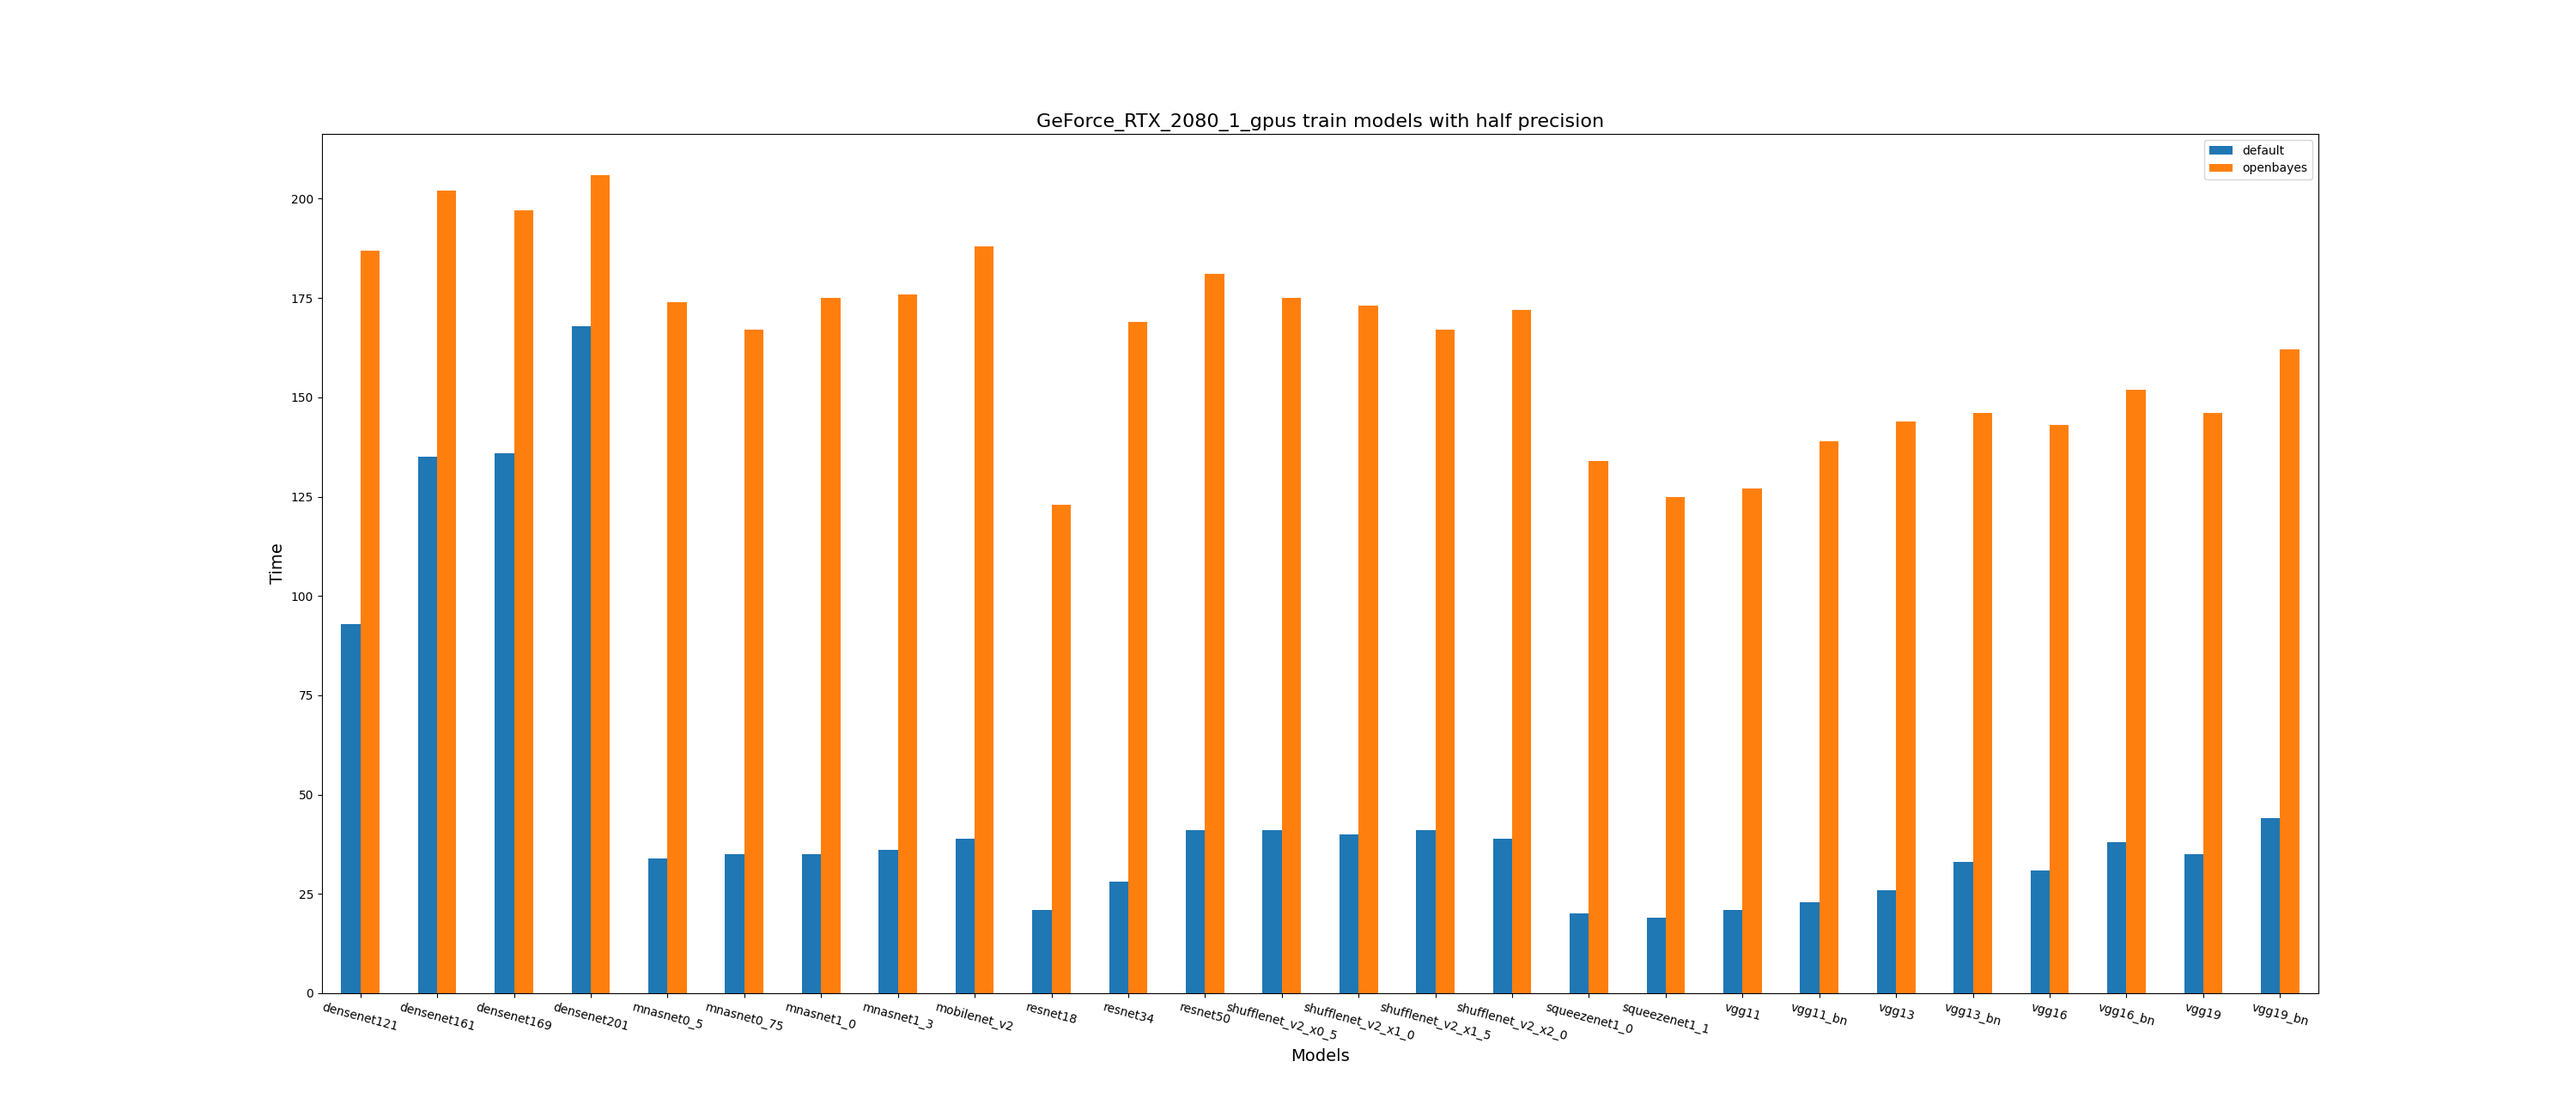
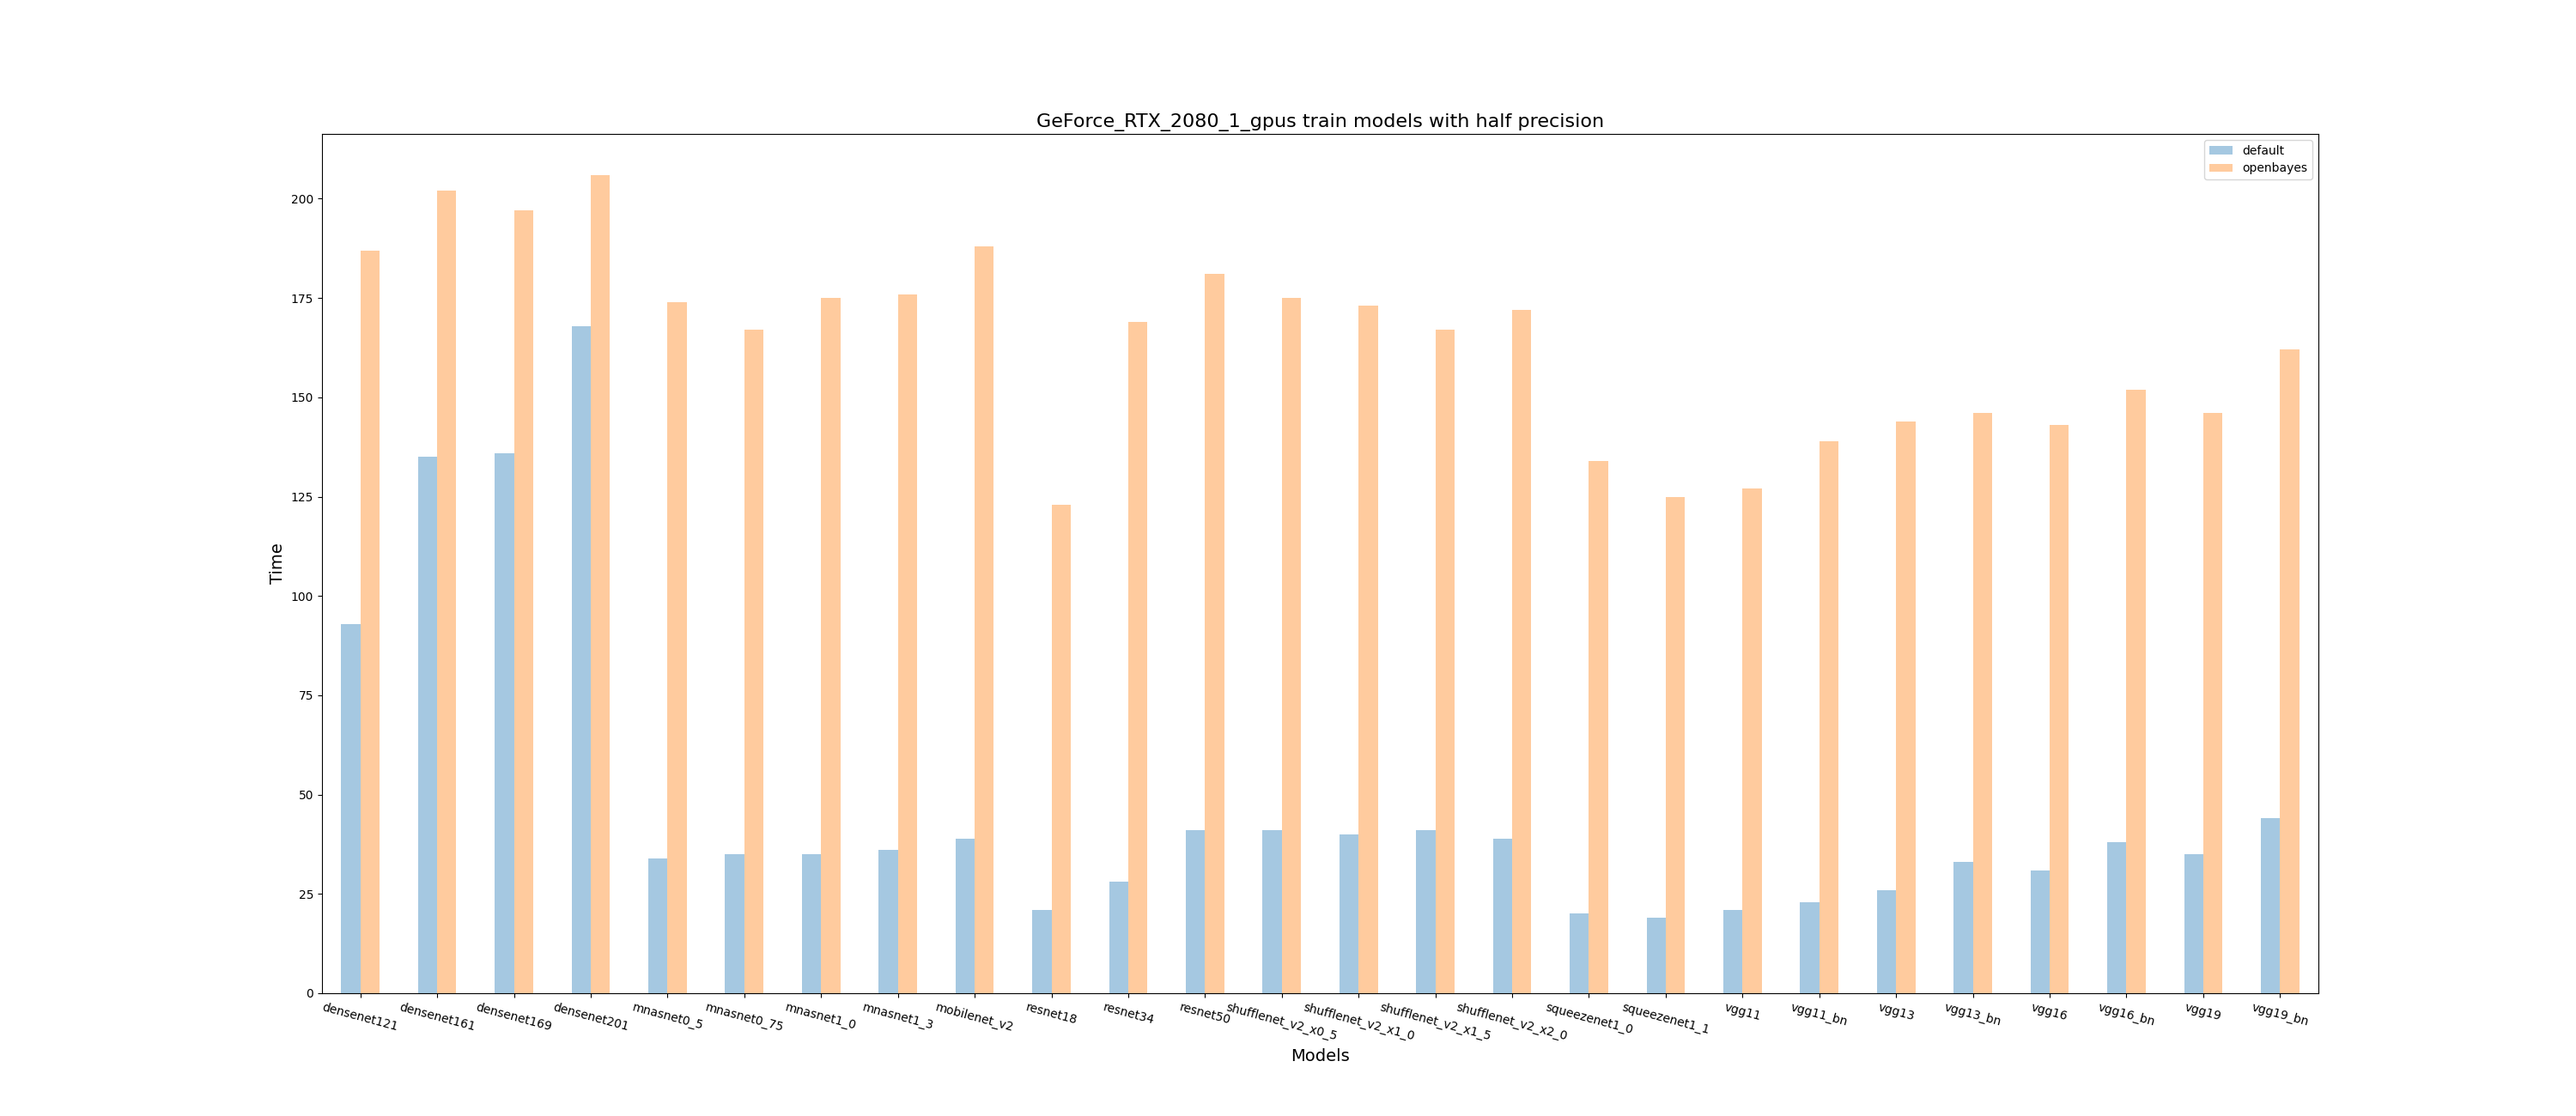
feat(benchmark): add color alpha for plot #2

Changed region(s): [[0.124, 0.1538, 0.899, 0.8923], [0.837, 0.1231, 0.868, 0.1538]]

diff --git a/benchmark_models.py b/benchmark_models.py
@@ -314,7 +314,7 @@ def plot_image_with_models_benchmark_on_special_gpu_between_envs(gpu,phase,preci
     plotdata = plotdata.sort_index(axis = 1)
     plotdata = plotdata.sort_index(axis = 0)
     
-    plotdata.plot(figsize=(30,13),kind="bar",rot=-15)
+    plotdata.plot(figsize=(30,13),kind="bar",rot=-15,alpha=0.4)
 
     plt.xlabel("Models",fontsize=14)
     plt.ylabel("Time",fontsize=14)
@@ -360,7 +360,7 @@ def plot_image_for_compare_model_benchmark_on_multiple_gpus(env,phase,precision,
     plotdata = plotdata.sort_index(axis = 1)
     plotdata = plotdata.sort_index(axis = 0)
   
-    plotdata.plot(figsize=(30,13),kind="bar",rot=-15)
+    plotdata.plot(figsize=(30,13),kind="bar",rot=-15,alpha=0.4)
     plt.xlabel("Models",fontsize=14)
     plt.ylabel("Time",fontsize=14)
 
@@ -409,9 +409,9 @@ if __name__ == '__main__':
 
 #     experiment(env_name,device_name)
 
-    statistic_experiment_result(env_name,device_name)
+#     statistic_experiment_result(env_name,device_name)
 
 #     先写个假的，做测试用
-#     experiment_result = './experiment_results'
-#     env = 'openbayes'
-#     compare_between_gpus(experiment_result,env)
+    experiment_result = './experiment_results'
+    env = 'openbayes'
+    compare_between_gpus(experiment_result,env)
